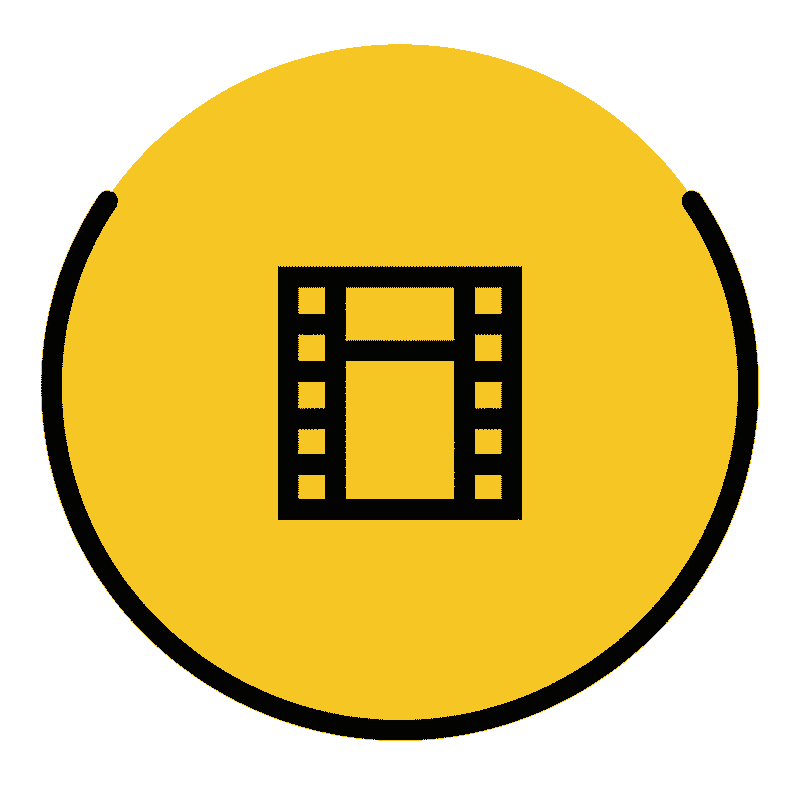
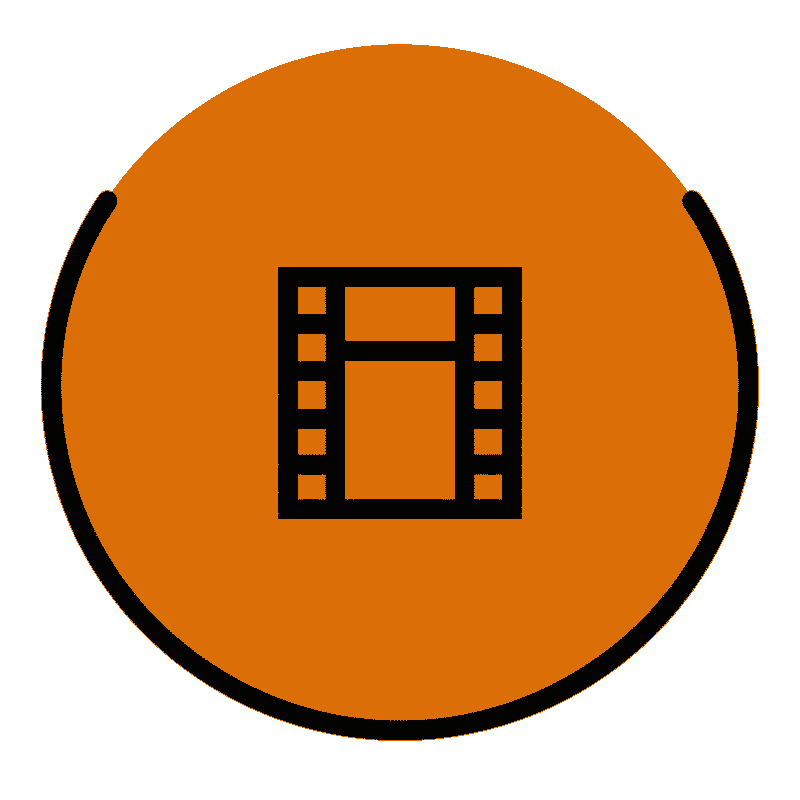
changed theme colors

diff --git a/src/App.tsx b/src/App.tsx
@@ -92,11 +92,11 @@ function App() {
   };
 
   return (
-    <div className="min-h-screen transition-colors duration-300 bg-gradient-to-br from-blue-50 via-white to-purple-50 dark:from-gray-900 dark:via-blue-900 dark:to-purple-900">
+    <div className="min-h-screen transition-colors duration-300 bg-gradient-to-br from-yellow-50 via-orange-50 to-amber-50 dark:from-black dark:via-black dark:to-black">
       {/* Background Effects */}
       <div className="fixed inset-0 overflow-hidden pointer-events-none">
-        <div className="absolute top-1/4 left-1/4 w-96 h-96 bg-blue-500/10 rounded-full blur-3xl animate-pulse" />
-        <div className="absolute bottom-1/4 right-1/4 w-96 h-96 bg-purple-500/10 rounded-full blur-3xl animate-pulse delay-1000" />
+        <div className="absolute top-1/4 left-1/4 w-96 h-96 bg-yellow-500/10 rounded-full blur-3xl animate-pulse" />
+        <div className="absolute bottom-1/4 right-1/4 w-96 h-96 bg-orange-500/10 rounded-full blur-3xl animate-pulse delay-1000" />
       </div>
 
       {/* Header */}
@@ -107,11 +107,9 @@ function App() {
             animate={{ opacity: 1, x: 0 }}
             className="flex items-center space-x-3"
           >
-            <div className="p-3 bg-gradient-to-r from-blue-500 to-purple-600 rounded-2xl shadow-lg">
-              <Film className="w-8 h-8 text-white" />
-            </div>
+            <img src="/cineai.png" alt="CineAI Logo" className="w-10 h-10" />
             <div>
-              <h1 className="text-2xl font-bold bg-gradient-to-r from-blue-600 to-purple-600 bg-clip-text text-transparent">
+              <h1 className="text-2xl font-bold bg-gradient-to-r from-yellow-600 to-orange-600 bg-clip-text text-transparent">
                 CineAI
               </h1>
               <p className="text-sm text-gray-600 dark:text-gray-400">
@@ -143,7 +141,7 @@ function App() {
                 className="text-5xl md:text-6xl font-bold text-gray-900 dark:text-white"
               >
                 Discover Your Next
-                <span className="block bg-gradient-to-r from-blue-600 to-purple-600 bg-clip-text text-transparent">
+                <span className="block bg-gradient-to-r from-yellow-600 to-orange-600 bg-clip-text text-transparent">
                   Favorite Movie
                 </span>
               </motion.h2>
@@ -173,16 +171,16 @@ function App() {
               transition={{ delay: 0.8 }}
               className="flex justify-center space-x-4"
             >
-              <div className="flex items-center space-x-2 px-4 py-2 bg-white/50 dark:bg-gray-800/50 backdrop-blur-sm rounded-full border border-gray-200/50 dark:border-gray-700/50">
-                <Sparkles className="w-4 h-4 text-blue-500" />
+              <div className="flex items-center space-x-2 px-4 py-2 bg-white/50 dark:bg-black/50 backdrop-blur-sm rounded-full border border-gray-200/50 dark:border-gray-800/50">
+                <Sparkles className="w-4 h-4 text-yellow-500" />
                 <span className="text-sm font-medium text-gray-700 dark:text-gray-300">AI Recommendations</span>
               </div>
-              <div className="flex items-center space-x-2 px-4 py-2 bg-white/50 dark:bg-gray-800/50 backdrop-blur-sm rounded-full border border-gray-200/50 dark:border-gray-700/50">
-                <TrendingUp className="w-4 h-4 text-purple-500" />
+              <div className="flex items-center space-x-2 px-4 py-2 bg-white/50 dark:bg-black/50 backdrop-blur-sm rounded-full border border-gray-200/50 dark:border-gray-800/50">
+                <TrendingUp className="w-4 h-4 text-orange-500" />
                 <span className="text-sm font-medium text-gray-700 dark:text-gray-300">Trending Movies</span>
               </div>
-              <div className="flex items-center space-x-2 px-4 py-2 bg-white/50 dark:bg-gray-800/50 backdrop-blur-sm rounded-full border border-gray-200/50 dark:border-gray-700/50">
-                <Film className="w-4 h-4 text-green-500" />
+              <div className="flex items-center space-x-2 px-4 py-2 bg-white/50 dark:bg-black/50 backdrop-blur-sm rounded-full border border-gray-200/50 dark:border-gray-800/50">
+                <Film className="w-4 h-4 text-amber-500" />
                 <span className="text-sm font-medium text-gray-700 dark:text-gray-300">Detailed Info</span>
               </div>
             </motion.div>
@@ -216,7 +214,7 @@ function App() {
                     whileHover={{ scale: 1.05 }}
                     whileTap={{ scale: 0.95 }}
                     onClick={clearSearch}
-                    className="px-4 py-2 bg-gray-200 dark:bg-gray-700 hover:bg-gray-300 dark:hover:bg-gray-600 rounded-xl transition-colors text-gray-700 dark:text-gray-300"
+                    className="px-4 py-2 bg-gray-200 dark:bg-gray-800 hover:bg-gray-300 dark:hover:bg-gray-700 rounded-xl transition-colors text-gray-700 dark:text-gray-300"
                   >
                     Clear Search
                   </motion.button>
@@ -234,7 +232,7 @@ function App() {
             >
               <div className="text-center space-y-6">
                 <div className="space-y-2">
-                  <AlertCircle className="w-12 h-12 text-orange-500 mx-auto" />
+                  <AlertCircle className="w-12 h-12 text-yellow-500 mx-auto" />
                   <h3 className="text-xl font-semibold text-gray-900 dark:text-white">
                     No movies found
                   </h3>
@@ -245,7 +243,7 @@ function App() {
                   </p>
                   
                   {/* Search suggestions */}
-                  <div className="bg-gray-50 dark:bg-gray-800/50 rounded-xl p-4 max-w-md mx-auto">
+                  <div className="bg-gray-50 dark:bg-black/50 rounded-xl p-4 max-w-md mx-auto">
                     <h4 className="font-medium text-gray-900 dark:text-white mb-2">
                       Try these searches instead:
                     </h4>
@@ -253,25 +251,25 @@ function App() {
                       <div className="flex flex-wrap gap-2">
                         <button
                           onClick={() => handleSearch('Inception')}
-                          className="px-3 py-1 bg-blue-100 dark:bg-blue-900/50 text-blue-700 dark:text-blue-300 rounded-full hover:bg-blue-200 dark:hover:bg-blue-800/50 transition-colors"
+                          className="px-3 py-1 bg-yellow-100 dark:bg-yellow-900/50 text-yellow-700 dark:text-yellow-300 rounded-full hover:bg-yellow-200 dark:hover:bg-yellow-800/50 transition-colors"
                         >
                           Inception
                         </button>
                         <button
                           onClick={() => handleSearch('The Matrix')}
-                          className="px-3 py-1 bg-blue-100 dark:bg-blue-900/50 text-blue-700 dark:text-blue-300 rounded-full hover:bg-blue-200 dark:hover:bg-blue-800/50 transition-colors"
+                          className="px-3 py-1 bg-yellow-100 dark:bg-yellow-900/50 text-yellow-700 dark:text-yellow-300 rounded-full hover:bg-yellow-200 dark:hover:bg-yellow-800/50 transition-colors"
                         >
                           The Matrix
                         </button>
                         <button
                           onClick={() => handleSearch('action movies')}
-                          className="px-3 py-1 bg-blue-100 dark:bg-blue-900/50 text-blue-700 dark:text-blue-300 rounded-full hover:bg-blue-200 dark:hover:bg-blue-800/50 transition-colors"
+                          className="px-3 py-1 bg-yellow-100 dark:bg-yellow-900/50 text-yellow-700 dark:text-yellow-300 rounded-full hover:bg-yellow-200 dark:hover:bg-yellow-800/50 transition-colors"
                         >
                           action movies
                         </button>
                         <button
                           onClick={() => handleSearch('romantic comedies')}
-                          className="px-3 py-1 bg-blue-100 dark:bg-blue-900/50 text-blue-700 dark:text-blue-300 rounded-full hover:bg-blue-200 dark:hover:bg-blue-800/50 transition-colors"
+                          className="px-3 py-1 bg-yellow-100 dark:bg-yellow-900/50 text-yellow-700 dark:text-yellow-300 rounded-full hover:bg-yellow-200 dark:hover:bg-yellow-800/50 transition-colors"
                         >
                           romantic comedies
                         </button>
@@ -285,7 +283,7 @@ function App() {
                     whileHover={{ scale: 1.05 }}
                     whileTap={{ scale: 0.95 }}
                     onClick={searchQuery ? () => handleSearch(searchQuery) : loadTrendingMovies}
-                    className="px-6 py-3 bg-blue-500 hover:bg-blue-600 text-white rounded-xl font-medium transition-colors"
+                    className="px-6 py-3 bg-gradient-to-r from-yellow-500 to-orange-500 hover:from-yellow-600 hover:to-orange-600 text-white rounded-xl font-medium transition-colors"
                   >
                     Try Again
                   </motion.button>
@@ -293,7 +291,7 @@ function App() {
                     whileHover={{ scale: 1.05 }}
                     whileTap={{ scale: 0.95 }}
                     onClick={clearSearch}
-                    className="px-6 py-3 bg-gray-200 dark:bg-gray-700 hover:bg-gray-300 dark:hover:bg-gray-600 text-gray-700 dark:text-gray-300 rounded-xl font-medium transition-colors"
+                    className="px-6 py-3 bg-gray-200 dark:bg-gray-800 hover:bg-gray-300 dark:hover:bg-gray-700 text-gray-700 dark:text-gray-300 rounded-xl font-medium transition-colors"
                   >
                     Back to Trending
                   </motion.button>

diff --git a/src/components/MovieCard.tsx b/src/components/MovieCard.tsx
@@ -23,7 +23,7 @@ export const MovieCard: React.FC<MovieCardProps> = ({ movie, onClick, index = 0 
       transition={{ duration: 0.5, delay: index * 0.1 }}
       whileHover={{ y: -10 }}
       onClick={onClick}
-      className="group cursor-pointer bg-white/80 dark:bg-gray-800/80 backdrop-blur-sm rounded-2xl overflow-hidden shadow-lg hover:shadow-2xl transition-all duration-500 border border-gray-200/50 dark:border-gray-700/50"
+      className="group cursor-pointer bg-white/80 dark:bg-black/80 backdrop-blur-sm rounded-2xl overflow-hidden shadow-lg hover:shadow-2xl transition-all duration-500 border border-gray-200/50 dark:border-gray-800/50"
     >
       <div className="relative overflow-hidden">
         <motion.img
@@ -48,7 +48,7 @@ export const MovieCard: React.FC<MovieCardProps> = ({ movie, onClick, index = 0 
 
         {/* Popularity indicator */}
         {movie.popularity > 100 && (
-          <div className="absolute top-3 left-3 bg-gradient-to-r from-purple-500 to-pink-500 rounded-full px-3 py-1 flex items-center space-x-1">
+          <div className="absolute top-3 left-3 bg-gradient-to-r from-yellow-500 to-orange-500 rounded-full px-3 py-1 flex items-center space-x-1">
             <TrendingUp className="w-4 h-4 text-white" />
             <span className="text-white text-xs font-medium">Popular</span>
           </div>
@@ -56,7 +56,7 @@ export const MovieCard: React.FC<MovieCardProps> = ({ movie, onClick, index = 0 
       </div>
 
       <div className="p-6">
-        <h3 className="text-xl font-bold text-gray-900 dark:text-white mb-2 line-clamp-2 group-hover:text-blue-600 dark:group-hover:text-blue-400 transition-colors">
+        <h3 className="text-xl font-bold text-gray-900 dark:text-white mb-2 line-clamp-2 group-hover:text-yellow-600 dark:group-hover:text-yellow-400 transition-colors">
           {movie.title}
         </h3>
         
@@ -73,7 +73,7 @@ export const MovieCard: React.FC<MovieCardProps> = ({ movie, onClick, index = 0 
 
         <div className="flex items-center justify-between">
           <div className="flex items-center space-x-2">
-            <div className="flex items-center bg-gray-100 dark:bg-gray-700 rounded-full px-3 py-1">
+            <div className="flex items-center bg-gray-100 dark:bg-gray-800 rounded-full px-3 py-1">
               <span className="text-xs font-medium text-gray-700 dark:text-gray-300">
                 {movie.vote_count} votes
               </span>
@@ -82,7 +82,7 @@ export const MovieCard: React.FC<MovieCardProps> = ({ movie, onClick, index = 0 
           
           <motion.div
             whileHover={{ scale: 1.05 }}
-            className="text-blue-600 dark:text-blue-400 font-medium text-sm group-hover:underline"
+            className="text-yellow-600 dark:text-yellow-400 font-medium text-sm group-hover:underline"
           >
             View Details →
           </motion.div>

diff --git a/src/components/MovieModal.tsx b/src/components/MovieModal.tsx
@@ -187,7 +187,7 @@ export const MovieModal: React.FC<MovieModalProps> = ({ movie, isOpen, onClose, 
                             {movieDetails.genres.map((genre) => (
                               <span
                                 key={genre.id}
-                                className="px-3 py-1 bg-blue-100 dark:bg-blue-900/50 text-blue-800 dark:text-blue-200 rounded-full text-sm font-medium"
+                                className="px-3 py-1 bg-yellow-100 dark:bg-yellow-900/50 text-yellow-800 dark:text-yellow-200 rounded-full text-sm font-medium"
                               >
                                 {genre.name}
                               </span>
@@ -221,7 +221,7 @@ export const MovieModal: React.FC<MovieModalProps> = ({ movie, isOpen, onClose, 
                         onClick={() => setActiveTab(key as any)}
                         className={`flex items-center space-x-2 py-4 border-b-2 font-medium text-sm transition-colors ${
                           activeTab === key
-                            ? 'border-blue-500 text-blue-600 dark:text-blue-400'
+                            ? 'border-yellow-500 text-yellow-600 dark:text-yellow-400'
                             : 'border-transparent text-gray-500 hover:text-gray-700 dark:hover:text-gray-300'
                         }`}
                       >
@@ -242,7 +242,7 @@ export const MovieModal: React.FC<MovieModalProps> = ({ movie, isOpen, onClose, 
                     >
                       {isLoadingDetails ? (
                         <div className="flex items-center justify-center py-12">
-                          <Loader2 className="w-8 h-8 animate-spin text-blue-500" />
+                          <Loader2 className="w-8 h-8 animate-spin text-yellow-500" />
                         </div>
                       ) : movieDetails ? (
                         <div className="grid grid-cols-1 md:grid-cols-2 lg:grid-cols-3 xl:grid-cols-4 gap-6">
@@ -327,7 +327,7 @@ export const MovieModal: React.FC<MovieModalProps> = ({ movie, isOpen, onClose, 
                       {isLoadingAI ? (
                         <div className="flex items-center justify-center py-12">
                           <div className="text-center">
-                            <Loader2 className="w-8 h-8 animate-spin text-blue-500 mx-auto mb-4" />
+                            <Loader2 className="w-8 h-8 animate-spin text-yellow-500 mx-auto mb-4" />
                             <p className="text-gray-600 dark:text-gray-400">Getting AI recommendations...</p>
                           </div>
                         </div>

diff --git a/src/components/SearchBar.tsx b/src/components/SearchBar.tsx
@@ -47,12 +47,12 @@ export const SearchBar: React.FC<SearchBarProps> = ({ onSearch, isLoading }) => 
               : '0 10px 15px -3px rgba(0, 0, 0, 0.1), 0 4px 6px -2px rgba(0, 0, 0, 0.05)'
           }}
           transition={{ duration: 0.2 }}
-          className="relative bg-white/90 dark:bg-gray-800/90 backdrop-blur-sm rounded-2xl border border-gray-200/50 dark:border-gray-700/50 overflow-hidden"
+          className="relative bg-white/90 dark:bg-black/90 backdrop-blur-sm rounded-2xl border border-gray-200/50 dark:border-gray-800/50 overflow-hidden"
         >
           <div className="flex items-center px-6 py-4">
             <Search className={`w-6 h-6 transition-colors duration-200 ${
               isFocused 
-                ? 'text-blue-500 dark:text-blue-400' 
+                ? 'text-yellow-500 dark:text-yellow-400' 
                 : 'text-gray-400 dark:text-gray-500'
             }`} />
             
@@ -78,7 +78,7 @@ export const SearchBar: React.FC<SearchBarProps> = ({ onSearch, isLoading }) => 
                   whileTap={{ scale: 0.9 }}
                   type="button"
                   onClick={handleClear}
-                  className="ml-3 p-1 rounded-full hover:bg-gray-100 dark:hover:bg-gray-700 transition-colors"
+                  className="ml-3 p-1 rounded-full hover:bg-gray-100 dark:hover:bg-gray-800 transition-colors"
                 >
                   <X className="w-5 h-5 text-gray-400 hover:text-gray-600 dark:hover:text-gray-300" />
                 </motion.button>
@@ -87,7 +87,7 @@ export const SearchBar: React.FC<SearchBarProps> = ({ onSearch, isLoading }) => 
 
             {isLoading && (
               <div className="ml-3">
-                <div className="w-5 h-5 border-2 border-blue-500 border-t-transparent rounded-full animate-spin" />
+                <div className="w-5 h-5 border-2 border-yellow-500 border-t-transparent rounded-full animate-spin" />
               </div>
             )}
           </div>

diff --git a/src/components/ThemeToggle.tsx b/src/components/ThemeToggle.tsx
@@ -11,7 +11,7 @@ export const ThemeToggle: React.FC = () => {
       whileHover={{ scale: 1.05 }}
       whileTap={{ scale: 0.95 }}
       onClick={toggleTheme}
-      className="relative p-3 rounded-full bg-white/10 dark:bg-gray-800/50 backdrop-blur-sm border border-white/20 dark:border-gray-700/50 shadow-lg hover:shadow-xl transition-all duration-300"
+      className="relative p-3 rounded-full bg-white/10 dark:bg-black/50 backdrop-blur-sm border border-white/20 dark:border-gray-800/50 shadow-lg hover:shadow-xl transition-all duration-300"
       aria-label="Toggle theme"
     >
       <div className="relative w-6 h-6">
@@ -37,7 +37,7 @@ export const ThemeToggle: React.FC = () => {
           transition={{ duration: 0.3 }}
           className="absolute inset-0"
         >
-          <Moon className="w-6 h-6 text-blue-400" />
+          <Moon className="w-6 h-6 text-orange-400" />
         </motion.div>
       </div>
     </motion.button>

diff --git a/index.html b/index.html
@@ -2,9 +2,13 @@
 <html lang="en">
   <head>
     <meta charset="UTF-8" />
-    <link rel="icon" type="image/svg+xml" href="/vite.svg" />
+    <link rel="icon" type="image/x-icon" href="/favicon.ico" />
+    <link rel="icon" type="image/png" sizes="32x32" href="/favicon-32x32.png" />
+    <link rel="icon" type="image/png" sizes="16x16" href="/favicon-16x16.png" />
+    <link rel="apple-touch-icon" sizes="180x180" href="/apple-touch-icon.png" />
+    <link rel="manifest" href="/site.webmanifest" />
     <meta name="viewport" content="width=device-width, initial-scale=1.0" />
-    <title>AI Movie Recommendation Web App</title>
+    <title>CineAI - AI-Powered Movie Discovery</title>
   </head>
   <body>
     <div id="root"></div>
